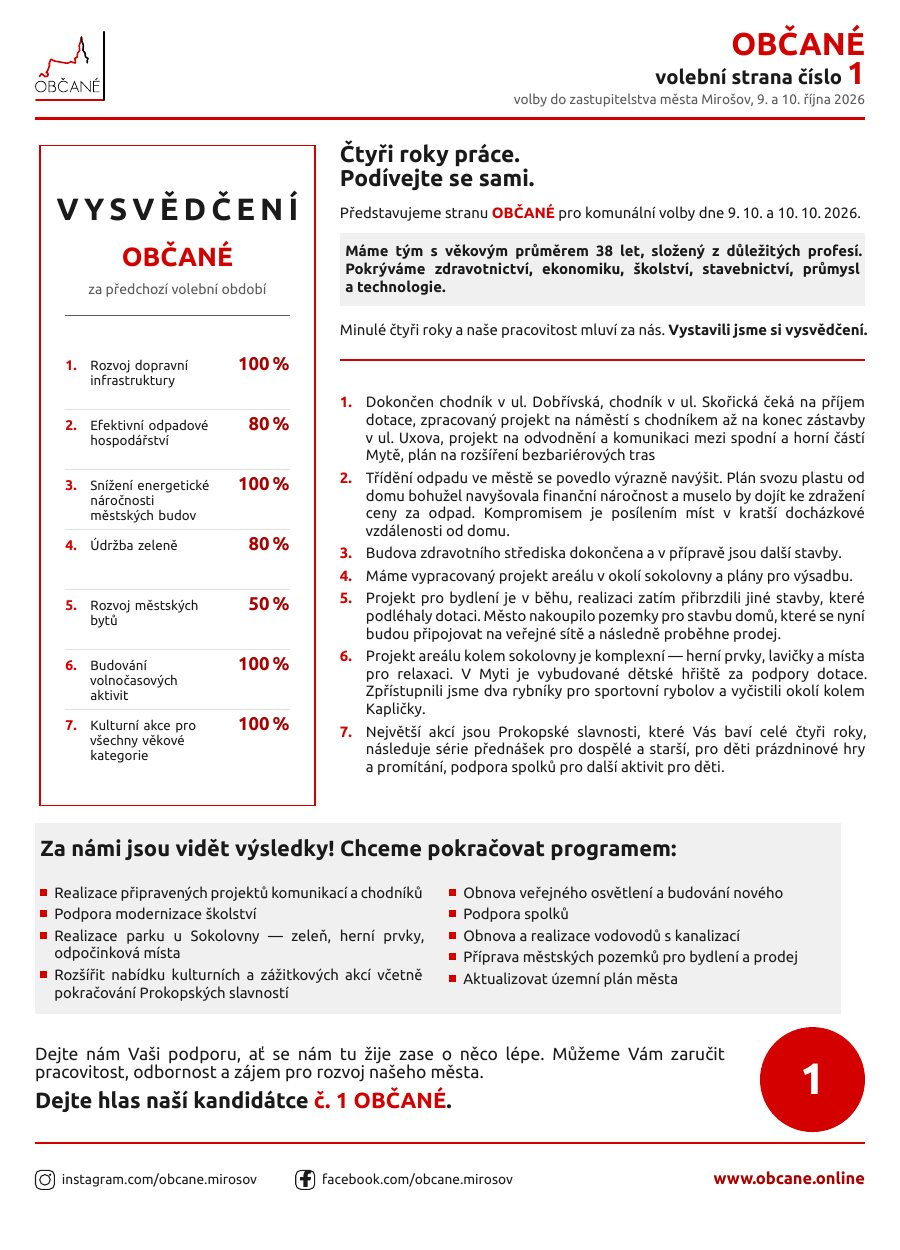
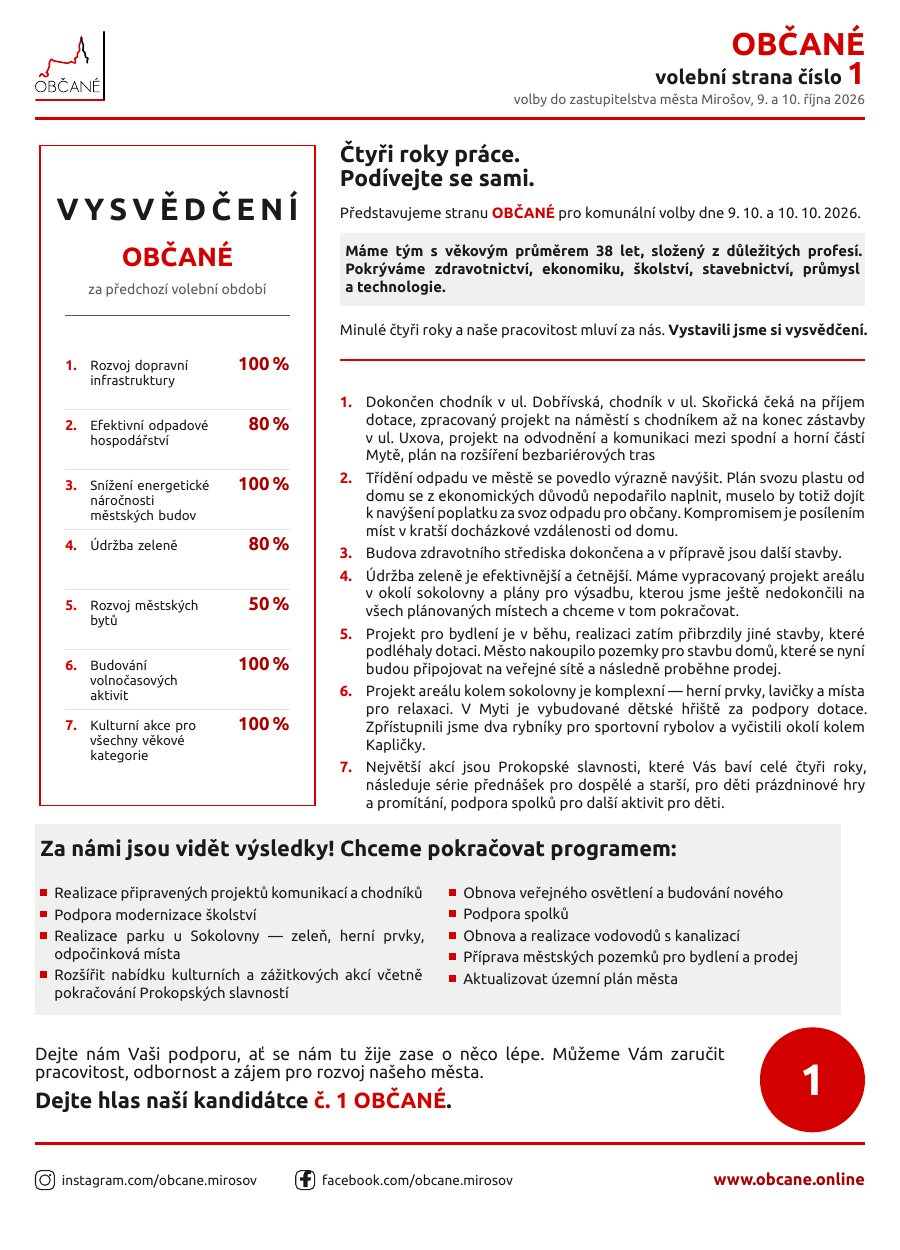
Oprava textů hodnocení: svoz plastu, údržba zeleně, přibrzdily
Tři textové změny v hodnocení 2022-2026 (zdroj hodnoceni.tex):
nová formulace věty o svozu plastu, rozšířený popis údržby zeleně
a oprava shody „přibrzdily jiné stavby". Přegenerovaná data webu
i PDF časopisu a brožury.

Claude-Session: https://claude.ai/code/session_01U4TbczKYgKzVraw1v6qe37

diff --git a/data/kandidati.js b/data/kandidati.js
@@ -178,7 +178,7 @@ const HODNOCENI = [
   {
     "nazev": "Efektivní odpadové hospodářství",
     "procento": 80,
-    "popis": "Třídění odpadu ve městě se povedlo výrazně navýšit. Plán svozu plastu od domu bohužel navyšovala finanční náročnost a muselo by dojít ke zdražení ceny za odpad. Kompromisem je posílením míst v kratší docházkové vzdálenosti od domu."
+    "popis": "Třídění odpadu ve městě se povedlo výrazně navýšit. Plán svozu plastu od domu se z ekonomických důvodů nepodařilo naplnit, muselo by totiž dojít k navýšení poplatku za svoz odpadu pro občany. Kompromisem je posílením míst v kratší docházkové vzdálenosti od domu."
   },
   {
     "nazev": "Snížení energetické náročnosti městských budov",
@@ -188,12 +188,12 @@ const HODNOCENI = [
   {
     "nazev": "Údržba zeleně",
     "procento": 80,
-    "popis": "Máme vypracovaný projekt areálu v okolí sokolovny a plány pro výsadbu."
+    "popis": "Údržba zeleně je efektivnější a četnější. Máme vypracovaný projekt areálu v okolí sokolovny a plány pro výsadbu, kterou jsme ještě nedokončili na všech plánovaných místech a chceme v tom pokračovat."
   },
   {
     "nazev": "Rozvoj městských bytů",
     "procento": 50,
-    "popis": "Projekt pro bydlení je v běhu, realizaci zatím přibrzdili jiné stavby, které podléhaly dotaci. Město nakoupilo pozemky pro stavbu domů, které se nyní budou připojovat na veřejné sítě a následně proběhne prodej."
+    "popis": "Projekt pro bydlení je v běhu, realizaci zatím přibrzdily jiné stavby, které podléhaly dotaci. Město nakoupilo pozemky pro stavbu domů, které se nyní budou připojovat na veřejné sítě a následně proběhne prodej."
   },
   {
     "nazev": "Budování volnočasových aktivit",
